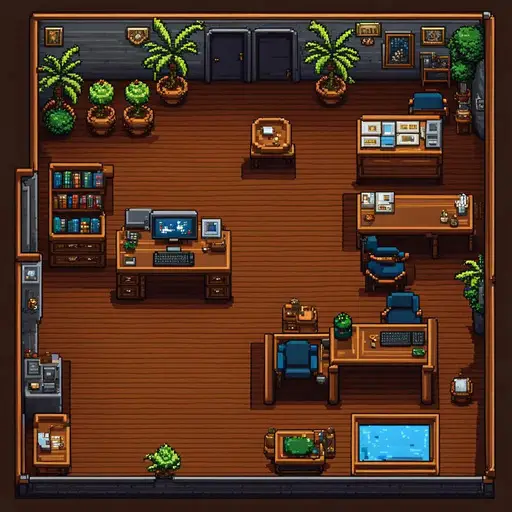
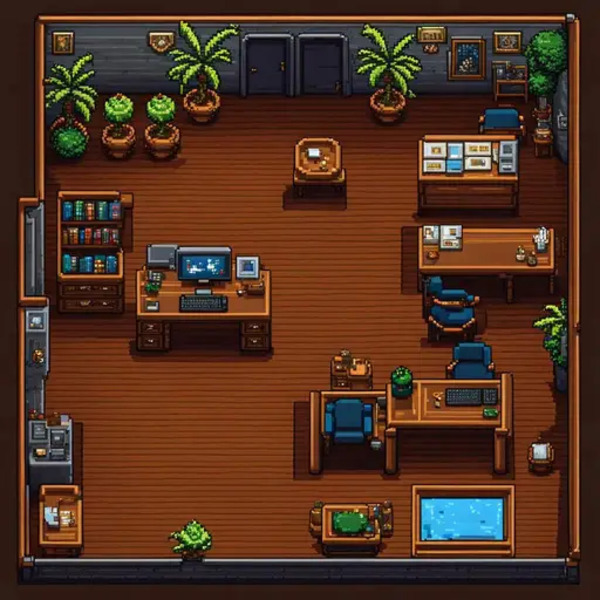
12 characters max per line to accommodate for Chinese text wrap width

diff --git a/src/scene/CEOScene.ts b/src/scene/CEOScene.ts
@@ -21,6 +21,7 @@ export class CEOScene extends Phaser.Scene {
   
   // character
   private player!: Phaser.Physics.Arcade.Sprite;
+  private shadow!: Phaser.Physics.Arcade.Sprite;
   private speechBubble!: ReturnType<typeof SpeechBubble.createSpeechBubble>;
   private messageBox!: MessagePanel;
 
@@ -45,8 +46,8 @@ export class CEOScene extends Phaser.Scene {
     });
 
     //this.bg = this.add.tileSprite(256, 256, this.game.renderer.width, this.game.renderer.height, CST.IMAGE.CEO_ROOM)
-    this.bg = this.add.image(0, 0, CST.IMAGE.CEO_ROOM).setOrigin(0).setDepth(0).setScale(1.2);
-    this.player = this.physics.add.sprite(250, 450, CST.IMAGE.PLAYER).setScale(0.2)
+    this.bg = this.add.image(0, 0, CST.IMAGE.CEO_ROOM).setOrigin(0).setDepth(0);
+    this.player = this.physics.add.sprite(250, 450, CST.IMAGE.PLAYER).setScale(0.2);
 
     this.game.canvas.style.cursor = `url('assets/images/cursor1.png'), default`;
 
@@ -68,6 +69,10 @@ export class CEOScene extends Phaser.Scene {
       this.music.play();
     });*/
 
+    this.add.graphics().lineStyle(5, 0x5C4033, 1).strokeRect(600, 2, 198, 596);
+    this.add.graphics().lineStyle(5, 0x5C4033, 1).strokeRect(2, 2, 596, 596);
+    this.add.graphics().lineStyle(5, 0x5C4033, 1).strokeRect(0, 600, 600, 200);
+
     //keyboard
     this.cursors = this.input.keyboard.createCursorKeys();
     this.input.keyboard.addKeys({
@@ -80,13 +85,13 @@ export class CEOScene extends Phaser.Scene {
       let graphics = this.add.graphics();
       graphics.fillStyle(0x000000, 1); // The '1' is the alpha for full opacity
       //graphics.fillRect(0, 512, 512, 100); // Fill a rectangle from (0, 512) to (512, 612)
-      this.messageBox = new MessagePanel(this, 620, 0, 200, 600, "大家好，這是遠傳夢想號");
+      this.messageBox = new MessagePanel(this, "大家好，這是遠傳夢想號", "玩家");
 
 
-      this.xpBar = this.add.image(0, 512, CST.IMAGE.XP).setOrigin(0).setDepth(0).setScale(0.22);
-      this.add.text(0, 570, "XP: " + this.xp, { fontSize: '20px', color: '#FFFFFF' });
-      this.add.text(0, 590, "Level: " + this.level), { fontSize: '20px', color: '#FFFFFF' };
-      this.compass = this.add.image(550, 550, CST.IMAGE.COMPASS).setDepth(0).setScale(0.2);
+      this.xpBar = this.add.image(605, 535, CST.IMAGE.XP).setOrigin(0).setDepth(0).setScale(0.23);
+      this.add.text(610, 500, "XP: " + this.xp, { fontSize: '20px', color: '#FFFFFF' });
+      this.add.text(610, 520, "Level: " + this.level), { fontSize: '20px', color: '#FFFFFF' };
+      this.compass = this.add.image(55, 550, CST.IMAGE.COMPASS).setDepth(0).setScale(0.2);
     }
   // this was for updating the background
   /*update(time: number, delta: number): void {
@@ -197,7 +202,7 @@ export class CEOScene extends Phaser.Scene {
         this.player.y + bubbleOffsetY, 
         130, 
         50, 
-        'This is a test speech bubble for EosRPG.'
+        'This is a test speech bubble for FETRPG.'
       );    };
 
     // ESC input

diff --git a/src/MessagePanel.ts b/src/MessagePanel.ts
@@ -8,20 +8,39 @@ export class MessagePanel {
     private y: number;
     private width: number;
     private height: number;
-    private maxMessages: number = 7;
+    private maxMessages: number = 20;
 
-    constructor(scene: Phaser.Scene, x, y, width, height, message: string) {
+    constructor(scene: Phaser.Scene, message: string, sender: string) {
         this.scene = scene;
-        this.x = x;
-        this.y = y;
-        this.width = width;
-        this.height = height;
+        this.x = 600;
+        this.y = 0;
+        this.width = 200;
+        this.height = 600;
 
-        this.panel = this.scene.add.graphics({ fillStyle: { color: 0x000000, alpha: 0.5 } });
+        this.panel = this.scene.add.graphics({ fillStyle: { color: 0x000000, alpha: 0.5 } });  
+        message = sender + "：" + message;
         this.addMessage(message);
         //this.panel.fillRect(x, y, width, height); // can adjust size and position
         
         // make the panel scrollable and make it able to display multiple messages
+    }
+
+    wrapChineseText(text) {
+        let result = '';
+        let lineLength = 0;
+    
+        // Iterate through each character in the text
+        for (let char of text) {
+            lineLength += 1;
+            result += char;
+            // If we reach the max line length, insert a line break
+            if (lineLength >= 12) {
+                result += '\n'; // Add a newline character to break the line
+                lineLength = 0; // Reset the line length counter
+            }
+        }
+    
+        return result;
     }
 
     addMessage(message: string) {
@@ -34,8 +53,7 @@ export class MessagePanel {
         // Calculate the Y position of the new message
         // This places the new message at the bottom of the list
         const newY = this.y + 10 + (this.messages.length * 22); // Assuming a fixed line height for simplicity
-        const newMessage = this.scene.add.text(this.x + 10, newY, message, { fontSize: '14px', color: '#FFFFFF' });
-        newMessage.setWordWrapWidth(this.width - 20);
+        let newMessage = this.scene.add.text(this.x + 10, newY, this.wrapChineseText(message), { fontSize: '14px', color: '#FFFFFF' });
 
         this.messages.push(newMessage);
 

diff --git a/src/scene/HRScene.ts b/src/scene/HRScene.ts
@@ -117,7 +117,7 @@ export class HRScene extends Phaser.Scene {
             this.speechBubble.destroy(); // or .setVisible(false) based on your implementation
         }
     
-        this.speechBubble = SpeechBubble.createSpeechBubble(this, this.player.x - 50, this.player.y - 120, 130, 50, 'This is a test speech bubble for EosRPG.');
+        this.speechBubble = SpeechBubble.createSpeechBubble(this, this.player.x - 50, this.player.y - 120, 130, 50, 'This is a test speech bubble for FETRPG.');
     };
 
     // ESC input

diff --git a/index.html b/index.html
@@ -2,7 +2,7 @@
 <html>
 <head>
     <meta name="viewport" content="width=device-width, initial-scale=1.0">
-    <title>EosRPG</title>
+    <title>FETRPG</title>
     <style>
       html,
       body {
